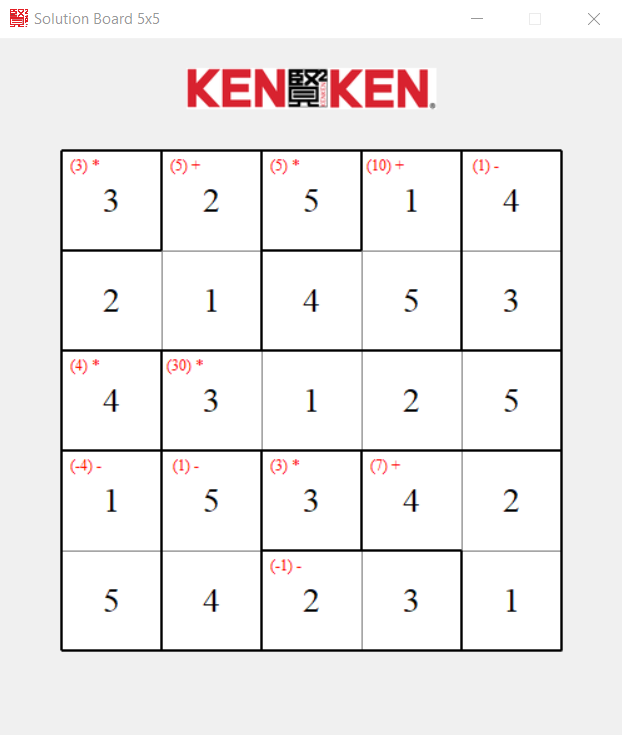
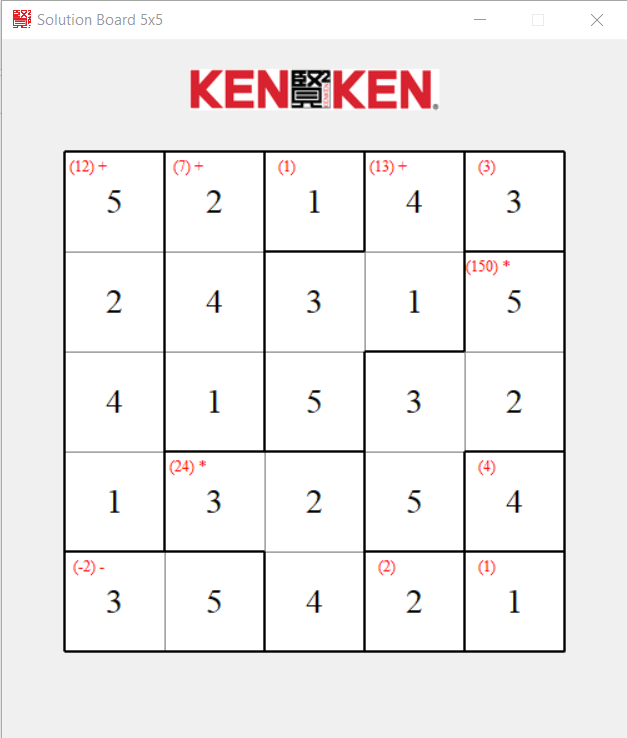
remove * from the single cell

diff --git a/board_gui.py b/board_gui.py
@@ -40,7 +40,7 @@ def prepare_solution(solutions, board_size):
 
 def draw_group_condition(canvas, cell, op, number):
     number = '(' + str(number) + ')'
-    op = '*' if(op == '.') else op
+    op = '' if(op == '.') else op
     txt = number + ' ' + op
     offset = 10 if (len(number)<3) else 16 
     top_offset = offset - 2 if (len(number)<3) else offset - 5
